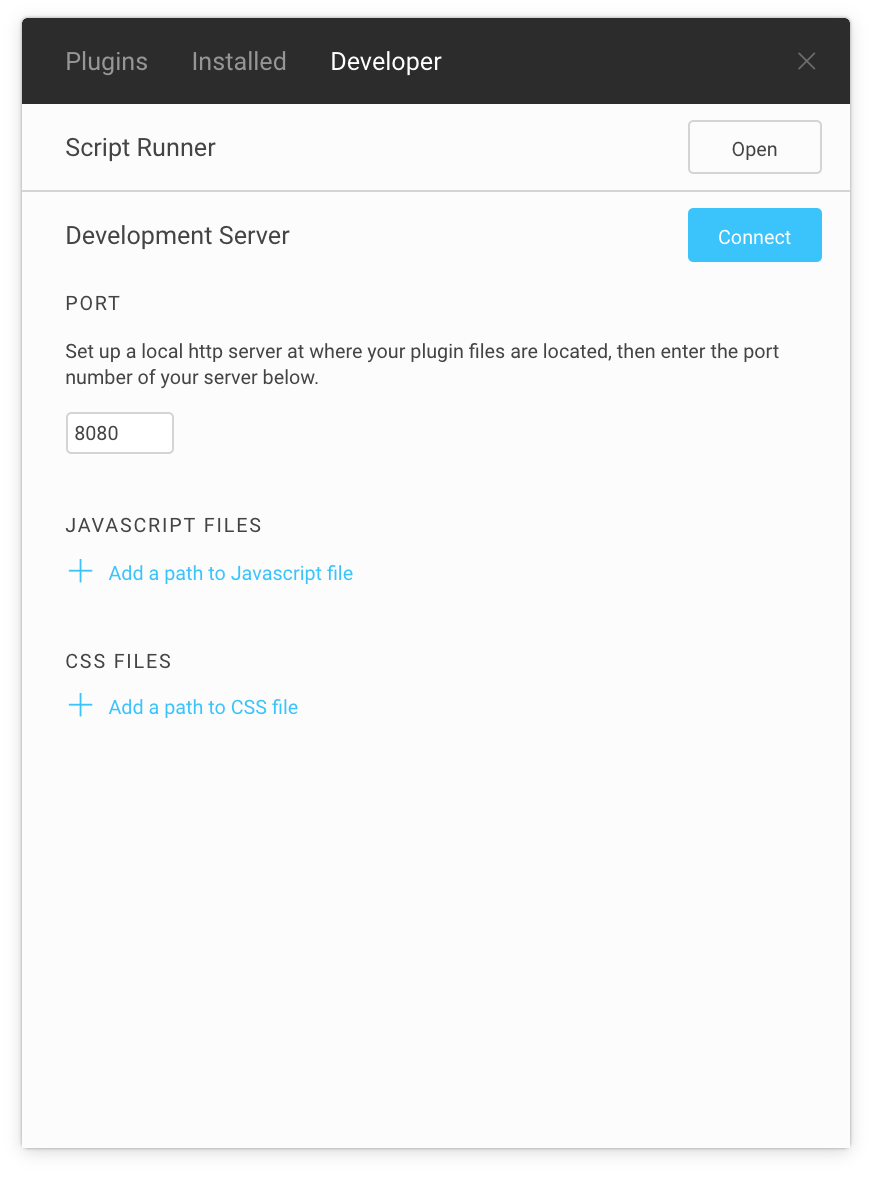
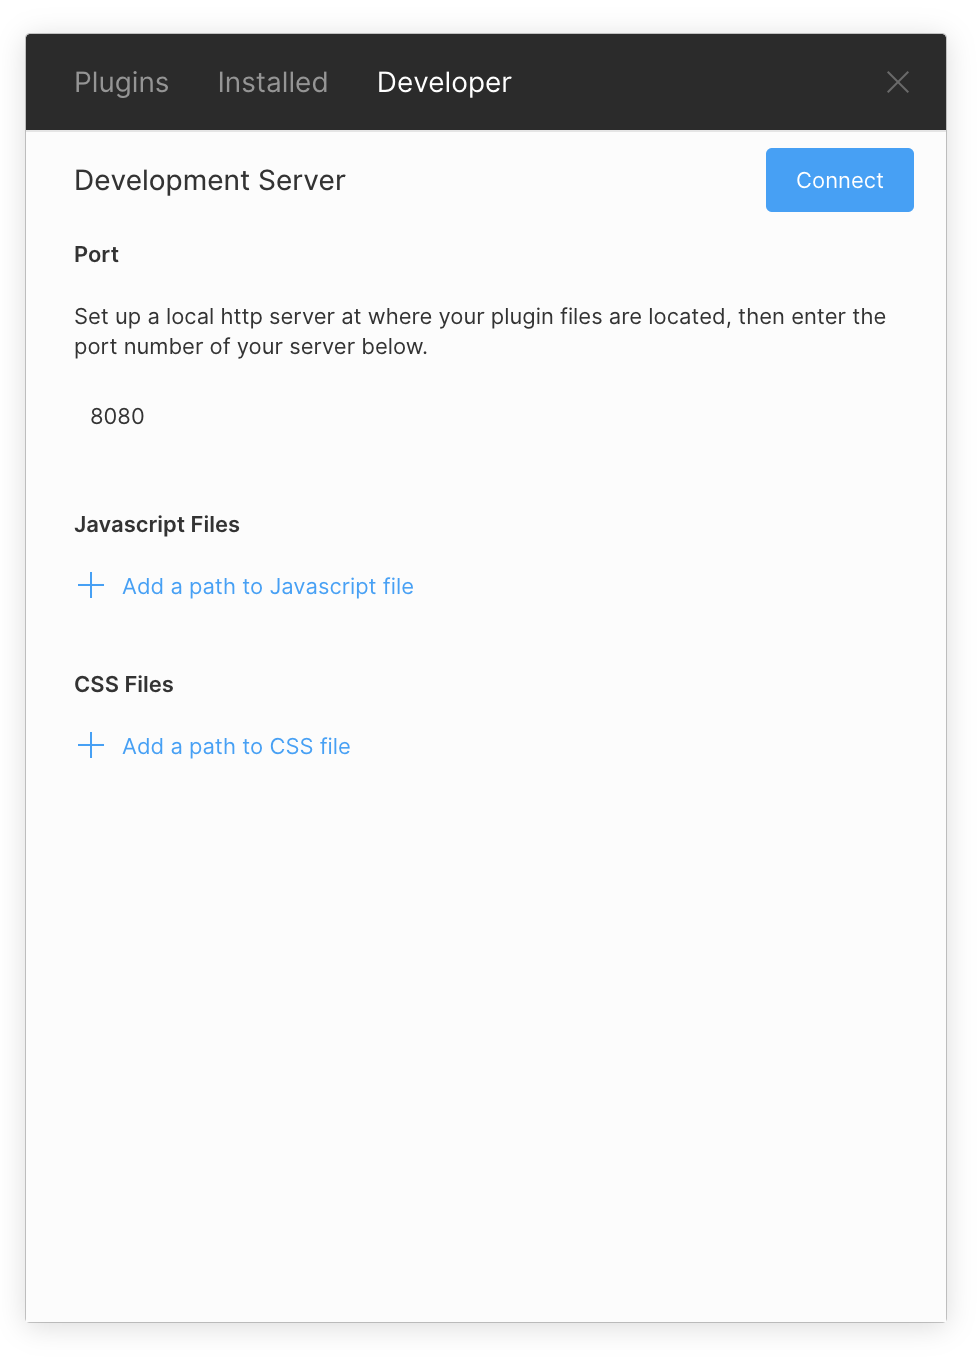
Updated

Changed region(s): [[0.0, 0.0, 0.9863, 0.9442], [0.0616, 0.4264, 0.4315, 0.5178], [0.0925, 0.5482, 0.339, 0.6091]]

diff --git a/api/ui.md b/api/ui.md
@@ -60,7 +60,7 @@ figmaPlus.addCommand({
 ```
 
 - **showInCanvasMenu (optional)** (`Boolean`): Show command in the canvas right click menu. Default: `false`
-  <img src="images/canvasMenu.jpg" width="400">
+  <img src="images/canvasMenu.png" width="250">
 
 - **showInSelectionMenu (optional)** (`Boolean`): Show command in the selection right click menu. Default: `false`
   <img src="images/selectionMenu.png" width="600">
@@ -169,7 +169,7 @@ figmaPlus.registerKeyboardShortcut({
 
 Show a Figma styled modal where you can attach a UI onto, using either HTML, a React component or a Vue components.
 
-<img src="images/modal.jpg" width="400">
+<img src="images/modal.png" width="400">
 
 ```javascript
 figmaPlus.showUI({
@@ -184,6 +184,7 @@ figmaPlus.showUI({
 	positionY,
 	overlay,
 	padding,
+	useFigmaStyles,
 	tabs
 });
 
@@ -201,7 +202,8 @@ figmaPlus.showUI({
 - **positionY (optional)** (`Number`): Vertical position in % relative to the screen, ranges from 0 to 1. Default: `0.5` (Center of the screen)
 - **overlay (optional)** (`Boolean`): Whether the modal has a dark overlay background. Default: `false`
 - **padding (optional)** (`Boolean`): Whether to include the default padding (`padding: 16px 8px`) around the modal content. Default: `true`
-- **tabs (optional)** (`Array`): Pass in an array of `Tab` objects to render a modal with tabbed content.
+- **useFigmaStyles (optional)** (`Boolean`): Set this to `false` to remove all Figma control styling in the content area. Default: `true`
+- **tabs (optional)** (`Array`): Pass in an array of `Tab` objects to render a modal with tabbed content. Note that if you use `tabs`, the `html`, `reactComponent`, `vueComponent` and `onMount` properties **outside** of the `tabs` array will be ignored.
 
 ```
 // Tab object format
@@ -214,7 +216,7 @@ figmaPlus.showUI({
 }
 ```
 
-<img src="images/tabbedModal.jpg" width="400">
+<img src="images/tabbedModal.png" width="400">
 
 <!-- prettier-ignore -->
 ```javascript
@@ -293,7 +295,7 @@ figmaPlus.addTooltip({
 
 Show a notification message (Toast) at the bottom of the screen, with an optional action button.
 
-<img src="images/toast.jpg" width="400">
+<img src="images/toast.png" width="400">
 
 <!-- prettier-ignore -->
 ```javascript

diff --git a/developerGuide/gettingStarted.md b/developerGuide/gettingStarted.md
@@ -38,29 +38,36 @@ Open the plugin manager to see a new Developer tab.
 </p>
 </details>
 
-## Script Runner
+## Run Script
 
-<img src="images/scriptRunner.png" width="600">
+<img src="images/scriptRunnerCommand.png" width="400">
 
-To run plugin scripts without setting up a developer environment, open **Script Runner** from the Developer tab and edit your code inside the text box. You can run any Javascript code using the script runner. But for this guide, let's stick with the default demo code:
+<img src="images/scriptRunner.png" width="500">
+
+Once you have Developer mode enabled, open the **Run Script** modal from the Figma Plus menu. You may run any Javascript code in this code editor. But for the purpose of this guide, let's stick with the default demo code:
 
 <!-- prettier-ignore -->
 ```javascript
-figmaPlus.createPluginsMenuItem(				// Create a menu item in the Figma Plus menu.
-	'Hello world!',							// Set the menu item's label to "Hello world!"
-	() => figmaPlus.showToast('Hello world!')	// When the item is clicked, show a toast that says "Hello world!"
-);
+figmaPlus.showToast({message: 'Hello world!'})
 ```
 
-Hit **Refresh and Run** to run your script after the page refreshes.
+Hit **Run** to see a toast pop up at the bottom of your screen.
 
-You will find a new menu item inside the **Figma Plus** menu called **Hello world!**.
+<img src="images/helloWorldToast.png" width="250">
 
-<img src="images/helloWorld.png" width="400">
+Now let's try adding a command to the Figma Plus menu:
 
-Click to see a toast pop up at the bottom of your screen.
+<!-- prettier-ignore -->
+```javascript
+figmaPlus.addCommand({
+	label: "Hello world",
+	action: () => figmaPlus.showToast({message: 'Hello world!'})
+})
+```
 
-<img src="images/helloWorldToast.jpg" width="200">
+Hit **Run** and you will find a new command inside the **Figma Plus** menu called **Hello world**.
+
+<img src="images/helloWorldCommand.png" width="400">
 
 Congratulations! You have created your first Figma Plus plugin!
 

diff --git a/developerGuide/publish.md b/developerGuide/publish.md
@@ -43,12 +43,8 @@ Here's an example:
 - **images**: Array of URL's to your plugin's screenshot. URL's can either be full addresses or relative path from the Github project's root (E.g. `screenshot/preview.png`).
 - **js**: Array of paths to your js files relative to your Github project's root.
 - **css**: Array of paths to your css files relative to your Github project's root.
-
-Optional keys:
-
-- **webOnly** (`Boolean`): Set this to `true` to hide this plugin on the desktop app.
-- **requiredOrgId** (`String`): ID of the Org that you want the plugin to only show in. Users outside of this Org will not see this plugin. You can get your current Org's ID by running `figmaPlus.getMyOrg()`.
-- **requiredTeamIds** (`Array of Strings`): Array of the teams that you want the plugin to only show in. Users outside of these teams will not see this plugin. You can get your teams' IDs by running `figmaPlus.getMyTeams()`.
+- **requiredOrgId (optional)** (`String`): ID of the Org that you want the plugin to only show in. Users outside of this Org will not see this plugin. You can get your current Org's ID from `figmaPlus.myOrg`.
+- **requiredTeamIds (optional)** (`Array of Strings`): Array of the teams that you want the plugin to only show in. Users outside of these teams will not see this plugin. You can get your teams' IDs from `figmaPlus.myTeams`.
 
 </p>
 </details>

diff --git a/developerGuide/devServer.md b/developerGuide/devServer.md
@@ -34,4 +34,4 @@ Select the **Developer** tab from the plugin manager, and enter information abou
 - **Javascript Files**: Add the paths to your `.js` files on your server. Note that the files are loaded in the displayed order, make sure to enter the paths in the order the files should load in.
 - **CSS Files**: Add the paths to your `.css` files if there are any.
 
-When you are done, click **Connect** and refresh your page to run your plugin.
+When you are done, click **Connect** to start running your plugin. As long as you are connected, you plugin scripts will run on every time your page loads.

diff --git a/userGuide/manager.md b/userGuide/manager.md
@@ -20,7 +20,7 @@ Clicking on a plugin will show its details.
 
 <img src="images/pluginDetails.png" width="450">
 
-To install the plugin, simply click **Install**.
+To install the plugin, simply click **Install** and your plugin will be ready to use right away.
 
 !> Some plugins will only run in the next page reload. If you have opened tabs on the desktop app, make sure to reload **all opened tabs** to see changes, or simply restart the app to do that quickly.
 
